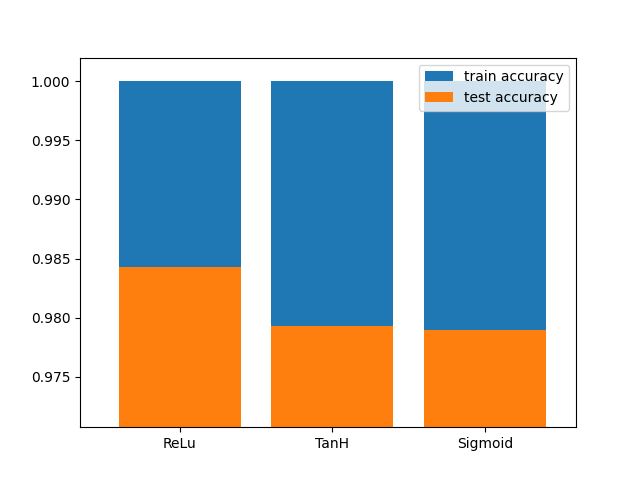
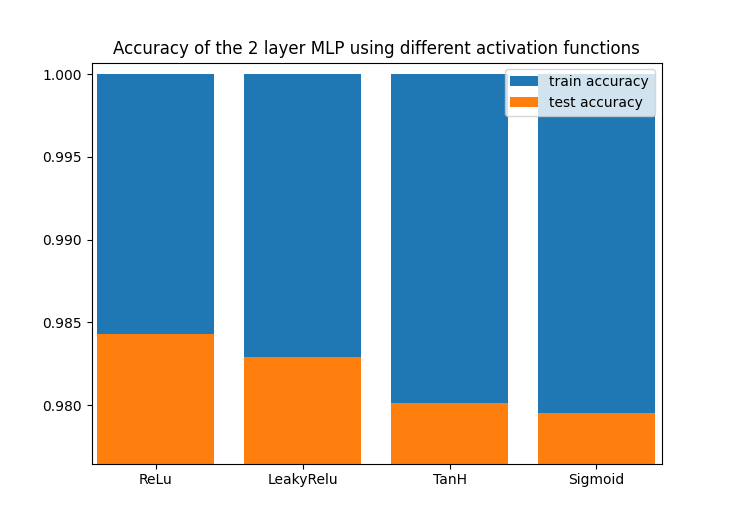
Add LeakyReLU activation function

diff --git a/src/MLP_test.py b/src/MLP_test.py
@@ -3,7 +3,7 @@ import numpy as np
 from sklearn.datasets import make_classification
 from sklearn.model_selection import train_test_split
 from Loss import softmax_crossentropy_with_logits, grad_softmax_crossentropy_with_logits
-from Activation import ReLU, Sig, Tanh
+from Activation import ReLU, Sig, Tanh, LeakyRelu
 from MLP import MLP
 import tensorflow as tf
 from preprocessing import preprocessing
@@ -67,9 +67,11 @@ def test_mlp_model(mlp, epochs, batchsize, print_lists=False, plot=True):
         plot_epoch_accuracy(accuracies_test, accuracies_train, durations, epochs)
     train_acc = mlp.evaluate_acc(mlp.predict(X_train), y_train)
     test_acc = mlp.evaluate_acc(mlp.predict(X_test), y_test)
+    duration = durations[-1]
 
     print(f"\nTrain accuracy after {epochs} epochs: {train_acc}")
     print(f"Test accuracy after {epochs} epochs: {test_acc}")
+    print(f"Duration of {epochs} epochs: {duration}")
     return train_acc, test_acc
 
 
@@ -100,6 +102,10 @@ def test_mlp_model(mlp, epochs, batchsize, print_lists=False, plot=True):
 #  mlp = MLP(ReLU, X_train.shape[1], [128, 128])
 #  accuracies.append(test_mlp_model(mlp, 40, 30, print_lists=True))  # Figure6
 #
+#  print("\n\nmlp a 2 hidden layers having 128 units with LeakyRelu activation")
+#  mlp = MLP(LeakyRelu, X_train.shape[1], [128, 128])
+#  accuracies.append(test_mlp_model(mlp, 40, 30, print_lists=True))  # Figure19
+#
 #  print("\n\nmlp a 2 hidden layers having 128 units with TanH activation")
 #  mlp = MLP(Tanh, X_train.shape[1], [128, 128])
 #  accuracies.append(test_mlp_model(mlp, 40, 30, print_lists=True))  # Figure7
@@ -108,8 +114,10 @@ def test_mlp_model(mlp, epochs, batchsize, print_lists=False, plot=True):
 #  mlp = MLP(Sig, X_train.shape[1], [128, 128])
 #  accuracies.append(test_mlp_model(mlp, 40, 30, print_lists=True))  # Figure8
 #
-#  activations = ["ReLu", "TanH", "Sigmoid"]
-#  plot_activation_accuracy(accuracies, activations)  # Figure9
+#
+#  activations = ["ReLu", "LeakyRelu", "TanH", "Sigmoid"]
+#  title = "Accuracy of the 2 layer MLP using different activation functions"
+#  plot_activation_accuracy(accuracies, activations, title)  # Figure9
 # ---------------------------------------------------------------------
 # Part3.3
 

diff --git a/src/Activation.py b/src/Activation.py
@@ -8,6 +8,21 @@ class Activation(Layer):
     pass
 
 
+class LeakyRelu(Activation):
+    """Based on this answer on stackoverflow:
+    https://stackoverflow.com/questions/50517545/how-do-i-implement-leaky-relu-using-numpy-functions#comment97538129_54206300"""
+
+    def __init__(self, a=0.01):
+        self.a = a
+
+    def forward_propagate(self, input):
+        return np.where(input > 0, input, input * self.a)
+
+    def backward_propagate(self, input, grad_output):
+        gradient = np.where(input > 0, 1.0, self.a)
+        return grad_output * gradient
+
+
 class Tanh(Activation):
     def forward_propagate(self, input):
         return np.tanh(input)

diff --git a/src/visualization.py b/src/visualization.py
@@ -82,10 +82,11 @@ def plot_lr_accuracy(accuracies, lrs):
     plt.show()
 
 
-def plot_activation_accuracy(accuracies, activations):
+def plot_activation_accuracy(accuracies, activations, title):
     ypos = np.arange(len(activations))
     plt.xticks(ypos, activations)
     plt.bar(ypos, [a[0] for a in accuracies], label="train accuracy")
     plt.bar(ypos, [a[1] for a in accuracies], label="test accuracy")
+    plt.title(title)
     plt.legend()
     plt.show()
